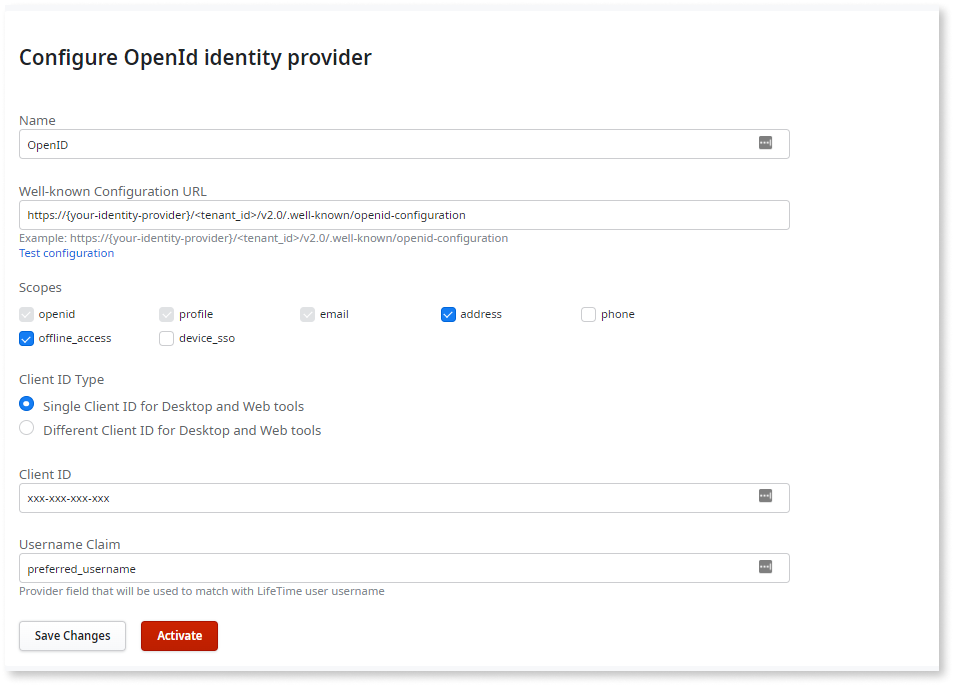
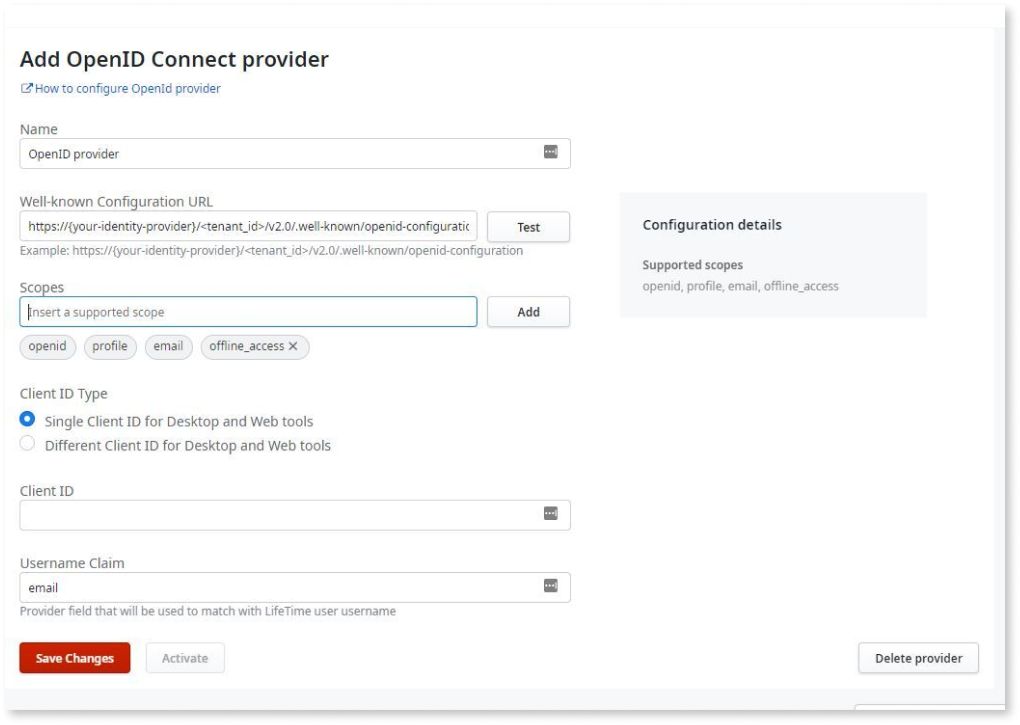
Update external-idp-lifetime.md TK-10764

diff --git a/src/managing-the-applications-lifecycle/manage-it-teams/external-idp/external-idp-lifetime.md b/src/managing-the-applications-lifecycle/manage-it-teams/external-idp/external-idp-lifetime.md
@@ -33,10 +33,10 @@ To configure the external provider (OIDC) in LifeTime, follow these steps:
 
         You can validate the URL using the **Test configuration** link.
        
-    1. **Scopes**: Once the well-known configuration URL is entered, all the scopes supported and enabled in the identity provider are fetched and listed for selection. Any required scope for the user authentication process can then be selected and saved for the configuration.
+    1. **Scopes**: Clicking the **Test** button after you enter the well-known configuration URL fetches all the scopes supported and enabled in the identity provider. The scopes are displayed on the **Configuration details** section. Any required scope for the user authentication process can be added and saved for the configuration.
        
           **Default Selected Scopes**:
-           By default, the following scopes are pre-selected for all identity providers:
+           By default, the following scopes are added for all identity providers and cannot be removed:
        
         * openid
        
@@ -44,19 +44,21 @@ To configure the external provider (OIDC) in LifeTime, follow these steps:
        
         * profile
        
-         These scopes provide basic user information that is necessary for authentication and initial authorization.
+         **Note**: If **offline_access** is supported and enabled in the Identity provider, this is also added by default. However, this scope can be removed if not needed.
+
+       These scopes provide basic user information that is necessary for authentication and initial authorization.
 
        **Additional Scope Selection**:
-                    In addition to the default selected scopes, users can choose any other required scopes based on the settings of their identity provider. The additional scopes serve various purposes, such as obtaining a refresh token or accessing specific claim values used to uniquely identify users.
+                    In addition to the default selected scopes, users can add any other required scopes based on the settings of their identity provider. The additional scopes serve various purposes, such as obtaining a refresh token or accessing specific claim values used to uniquely identify users.
 
         **Recommended Additional Scopes**:
                     The following are some recommendations for additional scope selection based on commonly used identity providers:
 
          *  **Azure AD**:
-                    For Azure AD, it is recommended to select the **offline_access** scope. This scope allows the application to request a refresh token, allowing it to obtain new access tokens without requiring user interaction.
+                    For Azure AD, it is recommended to add the **offline_access** scope. This scope allows the application to request a refresh token, allowing it to obtain new access tokens without requiring user interaction.
 
          *  **Okta**:
-                    For Okta, it is recommended to select the **offline_access** scope. This scope grants the application the ability to acquire a refresh token, ensuring seamless access token renewal without user involvement.
+                    For Okta, it is recommended to add the **offline_access** scope. This scope grants the application the ability to acquire a refresh token, ensuring seamless access token renewal without user involvement.
 
           **Note**: The recommended additional scopes mentioned above are not exhaustive, and users should consult their identity provider's documentation for specific scope requirements.
 
